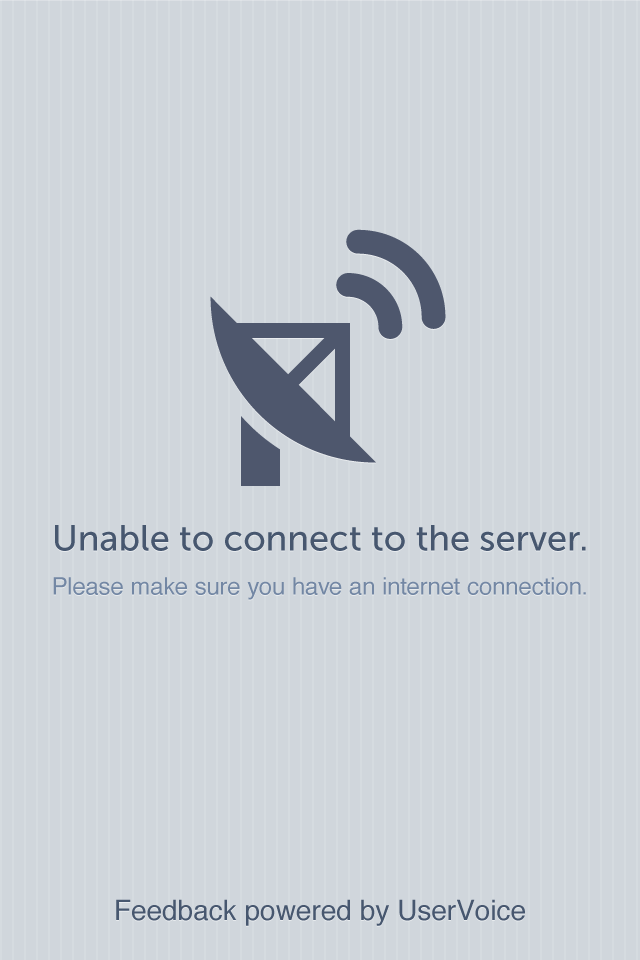
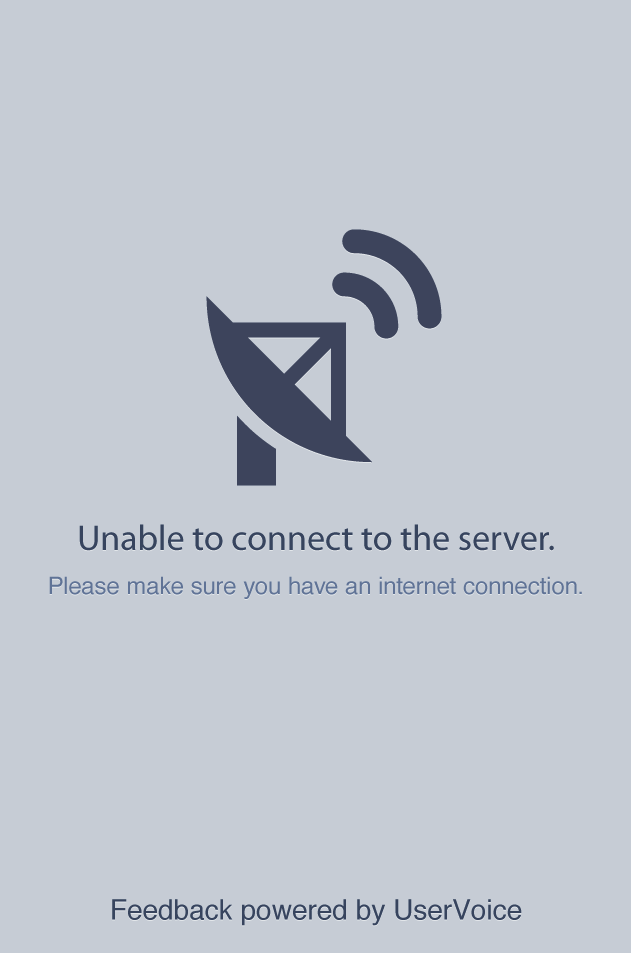
Handle different screen sizes better when displaying network error image

diff --git a/Classes/UVRootViewController.m b/Classes/UVRootViewController.m
@@ -168,10 +168,13 @@
 - (void)viewWillAppear:(BOOL)animated {
 	NSLog(@"View will appear (RootView)");
 
-	if (![UVNetworkUtils hasInternetAccess]) {
+	if (true) {
 		UIImageView *serverErrorImage = [[UIImageView alloc] initWithImage:[UIImage imageNamed:@"uv_error_connection.png"]];
 		self.navigationController.navigationBarHidden = NO;
 		serverErrorImage.frame = self.view.frame;
+        serverErrorImage.contentMode = UIViewContentModeCenter;
+        serverErrorImage.backgroundColor = [UIColor colorWithRed:0.78f green:0.80f blue:0.83f alpha:1.0f];
+        serverErrorImage.clipsToBounds = YES;
 		[self.view addSubview:serverErrorImage];
 		[serverErrorImage release];
 	} else if (![UVToken exists]) {
